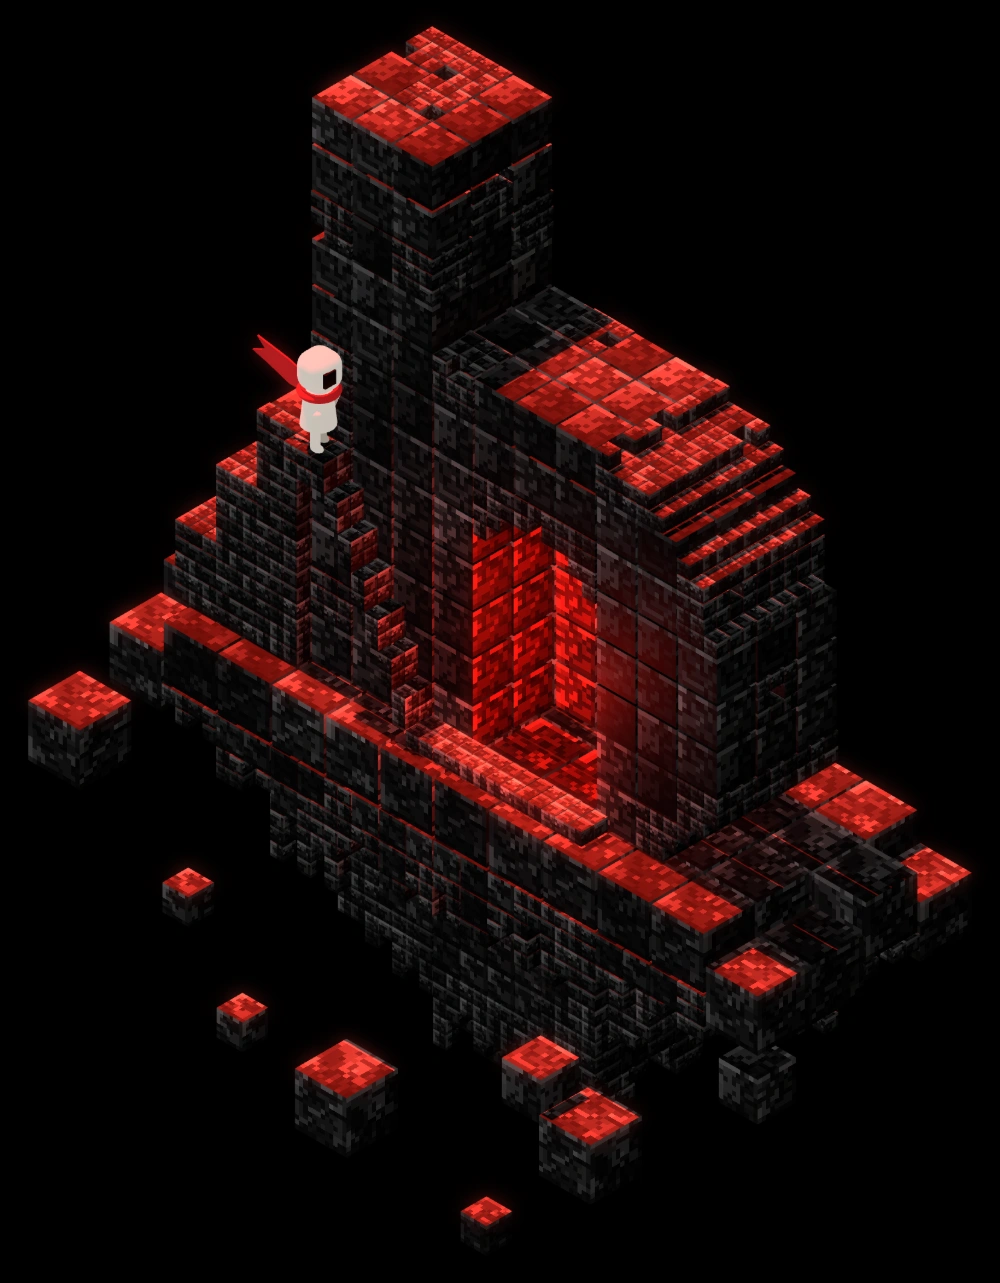
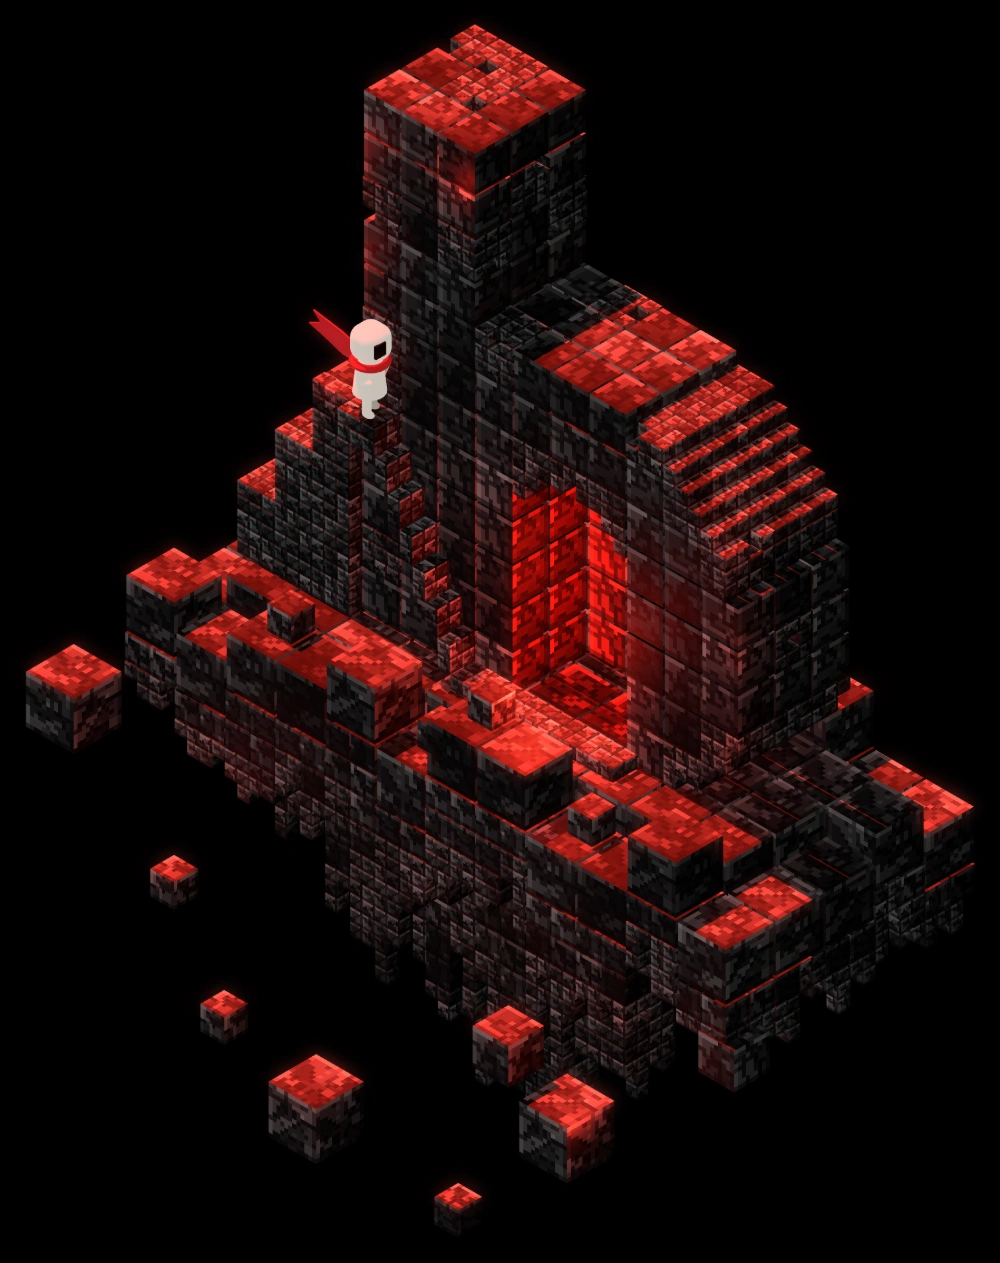
Sculpture: rim cubes at varied heights, tapered island, red edge and underglow lights
- foundation front pushed out one cell so the rim is a row of separate 12-unit
  cubes at different heights, with a minimum hang and a deeper centre (cone)
- small red point lights hug the stem's left edge and the bowl's right end, and
  sit low under the island so stalactite tips catch red light (still no red blocks)
- rounder bowl, chunkier stone chips, slightly more fill for the side faces

Claude-Session: https://claude.ai/code/session_01QzWKhTYrrY3Jd26DSiS11Q

diff --git a/tools/sculpture3d.js b/tools/sculpture3d.js
@@ -43,12 +43,12 @@ const DOOR = { x0: 60, x1: 87, zRect: 36, cx: 73.5, r: 13.5, recessY: 9 };   // 
 const BODY_Y1 = 27;
 const JF = BODY_Y1 / G;                            // cells in the depth of the body
 const STEM = { x0: 24, x1: 51, h: 108 };
-const BOWL = { x0: 42, x1: 114, h: 72, rTop: 33, rBot: 21 };
+const BOWL = { x0: 42, x1: 114, h: 72, rTop: 36, rBot: 24 };
 const LANDING_Z = 45;
-const PLAT = { x0: -12, x1: 132, y0: -12, y1: 36 };
+const PLAT = { x0: -12, x1: 132, y0: -12, y1: 48 };
 const PLAT_CX = (PLAT.x0 + PLAT.x1) / 2, PLAT_CY = (PLAT.y0 + PLAT.y1) / 2;
 const PLAT_AX = (PLAT.x1 - PLAT.x0) / 2, PLAT_AY = (PLAT.y1 - PLAT.y0) / 2;
-const RIM_M = 0.78;
+const RIM_M = 0.74;
 const CELL = 12;                                   // foundation top cube
 
 const inCircle = (x, z, cx, cz, r) => (x - cx) ** 2 + (z - cz) ** 2 <= r * r;
@@ -72,7 +72,7 @@ function platM(x, y) {
   const u = Math.abs(x - PLAT_CX) / PLAT_AX, v = Math.abs(y - PLAT_CY) / PLAT_AY;
   return Math.pow(u ** 7 + v ** 7, 1 / 7);
 }
-const inFootprint = (x, y) => x > -4 && x < 120 && y > -4 && y < 36;
+const inFootprint = (x, y) => x > -4 && x < 120 && y > -4 && y < 36;   // cells under the letter, stairs and doorstep stay flat
 
 /* ---------- blocks ---------- */
 // block: { X, Y, Z (centre, scene units), s (size), f: [6 face tokens], t (brightness tint) }
@@ -184,8 +184,8 @@ function emitPlatform() {
       const r = hash3(ci, cj, 0, 2), core = 1 - m;
       const onRim = m > RIM_M && !inFootprint(x, y);
       let top = 0;
-      if (onRim) top = r < 0.3 ? -6 : (r > 0.72 && x > 36 ? 6 : 0);                 // rim cubes stand at different heights
-      const H = 12 + 70 * Math.pow(core, 1.1) * (0.7 + 0.5 * r);                      // total hang (inverted pyramid)
+      if (onRim) top = r < 0.34 ? -6 : (r > 0.62 && x > 30 ? 6 : 0);                 // rim cubes stand at different heights
+      const H = 24 + 72 * Math.pow(core, 1.3) * (0.7 + 0.5 * r);                      // total hang (inverted pyramid)
       let rem = H - CELL;
       const extra = Math.floor(rem * 0.3 / CELL);
       const n12 = 1 + extra;
@@ -227,8 +227,8 @@ function emitPlatform() {
 /* ----- loose floating cubes ----- */
 const LOOSE = [
   // x, y, z (centre), size
-  [-18, 36, -30, 12], [10, 40, -46, 6], [46, 41, -66, 12], [78, 42, -74, 6],
-  [100, 41, -48, 12], [126, 30, -28, 9], [26, 44, -60, 6], [90, 42, -40, 9]
+  [-20, 52, -28, 12], [10, 58, -48, 6], [46, 60, -76, 12], [80, 60, -80, 6],
+  [104, 58, -52, 12], [130, 44, -30, 9], [26, 62, -66, 6], [92, 60, -40, 9]
 ];
 function emitLoose() {
   LOOSE.forEach(([X, Y, Z, s], n) => blocks.push({ X, Y, Z, s, f: tierFaces(900 + n), t: 0.85 }));
@@ -248,7 +248,7 @@ function makeTexture(kind, variant, n) {
   const rnd = (x, y, s) => hash3(x, y, seed, s);
   // Voronoi chips: each texel belongs to its nearest site; each site has its own brightness
   const sites = [];
-  const count = Math.max(4, Math.round(n * n / 6.5));
+  const count = Math.max(4, Math.round(n * n / 9));
   for (let i = 0; i < count; i++) sites.push({ x: rnd(i, 0, 1) * n, y: rnd(i, 1, 2) * n, v: 0.38 + 0.8 * Math.pow(rnd(i, 2, 3), 1.3) });
   const owner = new Int16Array(n * n);
   for (let y = 0; y < n; y++) for (let x = 0; x < n; x++) {
@@ -262,7 +262,7 @@ function makeTexture(kind, variant, n) {
       let f = sites[o].v;
       const edge = (x > 0 && owner[y * n + x - 1] !== o) || (y > 0 && owner[(y - 1) * n + x] !== o);
       if (edge && rnd(x, y, 4) < 0.7) f *= 0.45;                           // cracks between chips
-      if (rnd(x, y, 5) < 0.05) f *= 0.5;                                   // pits
+      if (rnd(x, y, 5) < 0.03) f *= 0.5;                                   // pits
       if (rnd(x, y, 6) < 0.04) f *= 1.35;                                  // chalky flecks
       // bevel: lit top-left edges, shaded bottom-right
       if (y === 0) f *= 1.9;
@@ -364,9 +364,9 @@ for (const [, list] of groups) {
 })();
 
 /* ---------- lights: red is the main light; the white fill is almost nothing ---------- */
-scene.add(new THREE.AmbientLight(0xffffff, 0.075));
+scene.add(new THREE.AmbientLight(0xffffff, 0.1));
 scene.add(new THREE.HemisphereLight(0xb8b4c0, 0x120c0c, 0.1));
-const fill = new THREE.DirectionalLight(0xc8ccd8, 0.28);              // keeps the left faces a touch lighter than the right
+const fill = new THREE.DirectionalLight(0xc8ccd8, 0.38);              // keeps the left faces a touch lighter than the right
 fill.position.set(-80, 70, 160);
 scene.add(fill);
 
@@ -388,6 +388,19 @@ doorInner.position.set(DOOR.cx, 22, 18);
 const doorMouth = new THREE.PointLight(0xff2418, 1700, 65, 2);        // spill onto floor, steps and wall
 doorMouth.position.set(DOOR.cx, 14, 36);
 scene.add(doorInner, doorMouth);
+
+const edgeLights = [];
+const edgeLight = (X, Y, Z, intensity, dist) => {
+  const l = new THREE.PointLight(0xff2418, intensity, dist, 2);
+  l.position.set(X, Z, Y);                                            // scene (X, Y, Z) -> three (x, z, y)
+  edgeLights.push(l); scene.add(l);
+};
+for (const z of [92, 70, 48]) edgeLight(19, 31, z, 150, 26);          // left edge of the stem
+for (const z of [60, 36, 14]) edgeLight(117, 34, z, 130, 26);         // right end of the bowl
+edgeLight(48, 30, 100, 90, 22);
+edgeLight(56, 76, -52, 330, 80);                                      // low red glow under the island: the stalactite tips catch it
+edgeLight(112, 62, -44, 240, 70);
+edgeLight(6, 62, -38, 200, 60);                                       // top front corner of the stem
 
 /* ---------- camera + render ---------- */
 const bbox = new THREE.Box3();

diff --git a/index.html b/index.html
@@ -46,9 +46,9 @@
       <figure class="hero__art">
         <img class="hero__sculpture"
           src="assets/sculpture.webp"
-          srcset="assets/sculpture-1000.webp 1000w, assets/sculpture.webp 1659w"
+          srcset="assets/sculpture-1000.webp 1000w, assets/sculpture.webp 1794w"
           sizes="(max-width: 900px) 100vw, 46vw"
-          width="1659" height="2128"
+          width="1794" height="2266"
           alt="A lowercase b built from small charcoal blocks, floating on a rocky island. A stairway climbs to a tiny ivory explorer in a red scarf, and a red doorway glows in the bowl."
           fetchpriority="high" decoding="async">
       </figure>
